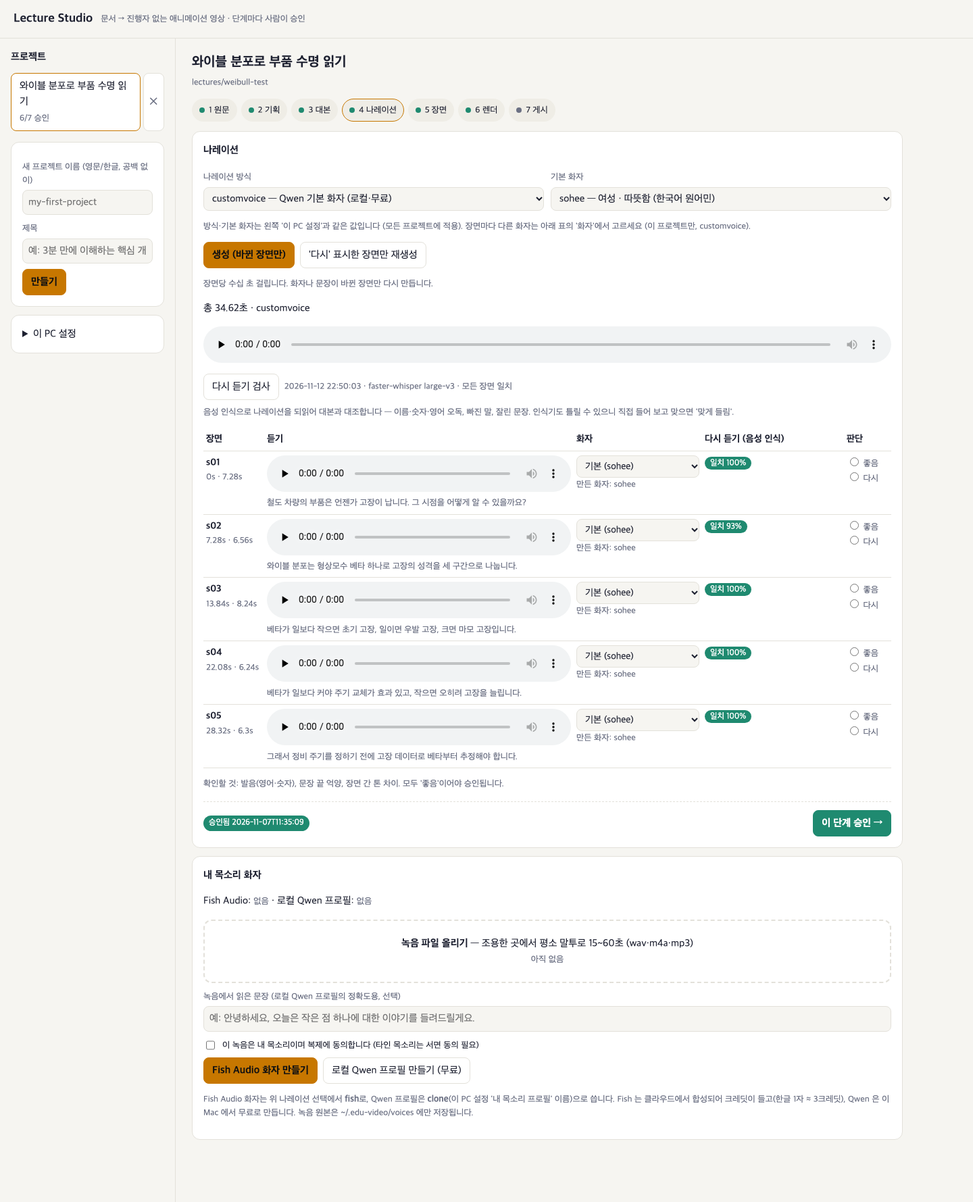
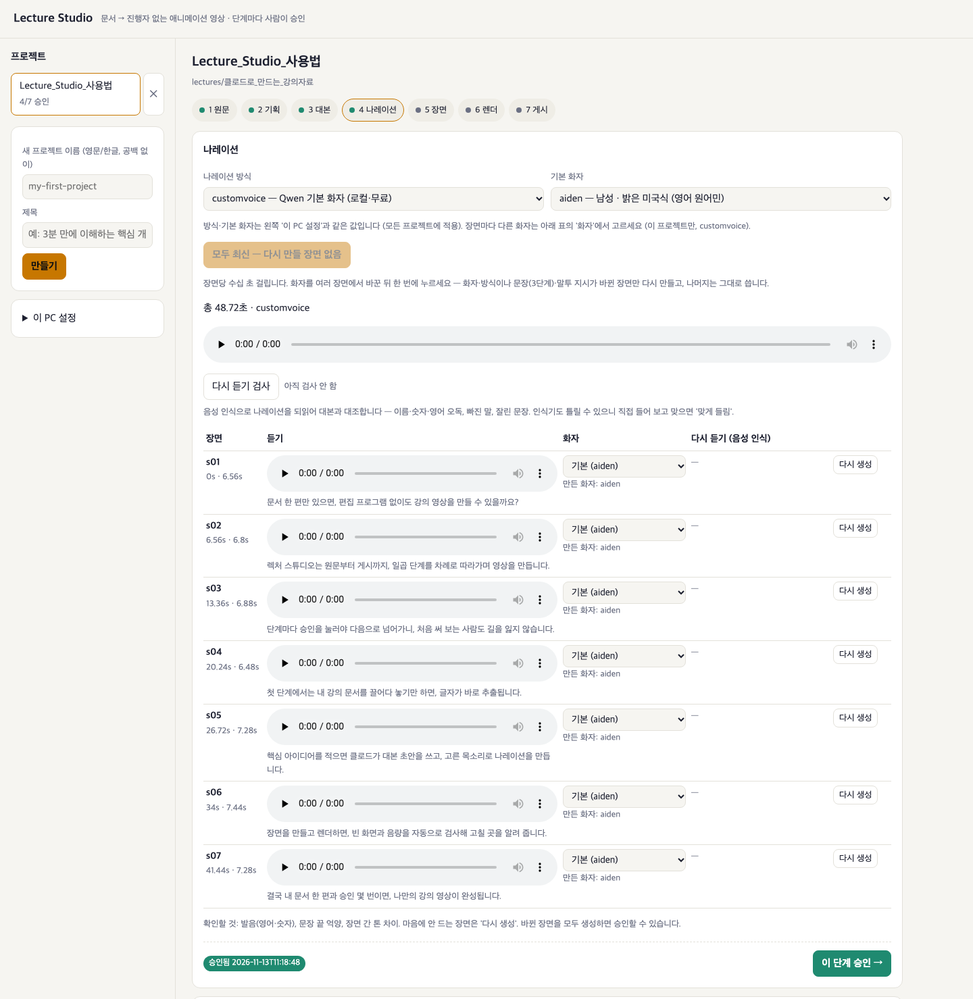
Studio 나레이션: 생성 버튼에 다시 만들 장면 수·이유, 장면별 좋음/다시 판단 제거, 길이 경고
- narrate.py: plan() / --plan — 모델 없이 다음 생성에서 다시 만들 장면과 이유(new·voice·text)를
  생성과 같은 해시 규칙으로 계산. 길이 경고(pace_warning): 글자 수에 비해 너무 길거나 짧은 테이크
- Studio: 생성 버튼에 "생성 — n개 장면 (화자 변경 · 문장 변경)", 전체 생성 / 모두 최신(비활성),
  행 배지에 이유, 화자 변경 시 안내, Fish 크레딧 추정은 다시 만들 장면만
- 장면별 좋음/다시 판단 제거 → 행마다 '다시 생성', 검사·길이 경고에 걸린 장면은 '걸린 장면 다시 생성'.
  승인 조건 = 바뀐 장면이 모두 생성됨
- 문서: USAGE·WORKFLOW·README 갱신, 나레이션 캡처 교체

diff --git a/studio/index.html b/studio/index.html
@@ -349,27 +349,45 @@ function sttCell(id) {
 const BACKENDS = [["customvoice", "Qwen 기본 화자 (로컬·무료)"], ["clone", "Qwen 내 목소리 (로컬·무료)"],
   ["fish", "Fish Audio 내 목소리 (유료 크레딧)"], ["silent", "길이만 — 시험용"]];
 const backendOptions = (sel) => BACKENDS.map(([v, d]) => `<option value="${v}" ${v === sel ? "selected" : ""}>${v} — ${d}</option>`).join("");
+/* what "생성" will (re)make and why — from the server (tools/narrate.py plan(), same cache key as generation) */
+const REASON = { new: "새 장면", voice: "화자 변경", text: "문장 변경" };
+function narrPlan() {
+  const p = view.narration_plan;
+  if (!p || p.error) return null;
+  return { ...p, byId: Object.fromEntries(p.pending.map((x) => [x.id, x.reasons])) };
+}
+function narrateLabel(p) {
+  if (!p) return { text: "생성 (바뀐 장면만)", off: false };
+  const n = p.pending.length;
+  if (!p.total) return { text: "생성할 장면 없음", off: true };
+  if (!n) return { text: "모두 최신 — 다시 만들 장면 없음", off: true };
+  if (n === p.total && p.pending.every((x) => x.reasons.includes("new"))) return { text: `전체 생성 (${n}개 장면)`, off: false };
+  const cnt = {};
+  p.pending.forEach((x) => x.reasons.forEach((r) => (cnt[r] = (cnt[r] || 0) + 1)));
+  return { text: `생성 — ${n}개 장면 (${Object.entries(cnt).map(([r, k]) => `${REASON[r] || r} ${k}`).join(" · ")})`, off: false };
+}
 function pNarration() {
   const m = view.audio, t = Date.now(), cfg = view.config || CONFIG;
   const backend = cfg.narrate_backend, cv = backend === "customvoice";
   const made = Object.fromEntries((m?.scenes || []).map((x) => [x.id, x]));
   const scenes = (view.scenes || {}).scenes || [];
-  // scenes the listen-back check flagged start as "다시" unless a person already judged them
-  for (const id of (view.stt && !view.stt.stale ? view.stt.flagged : [])) if (!review[id]) review[id] = "redo";
+  const plan = narrPlan(), lab = narrateLabel(plan);
+  const flagged = narrFlagged();
   const rows = scenes.map((sc) => {
     const a = made[sc.id], own = view.scene_speakers[sc.id] || "";
     const want = own || cfg.speaker;
     const madeWith = a && (m.backend === "customvoice" ? (a.speaker || m.speaker) : m.backend);
-    const stale = a && a.file && (m.backend !== backend || (cv && madeWith !== want));
+    const why = plan ? (plan.byId[sc.id] || []) : null;
+    const stale = a && a.file && (why ? why.length > 0 : (m.backend !== backend || (cv && madeWith !== want)));
+    const staleText = why && why.length ? `${why.map((r) => REASON[r] || r).join("·")} → 생성 시 다시 만듦` : "바뀜 — 생성 시 다시 만듦";
     const pick = `<select class="mini-select" ${cv ? "" : "disabled"} onchange="setSceneSpeaker('${esc(sc.id)}', this.value)">
         <option value="">기본 (${esc(cfg.speaker)})</option>${SPEAKERS.map(([v, d]) => `<option value="${v}" ${v === own ? "selected" : ""}>${v} — ${esc(d.split(" (")[0])}</option>`).join("")}</select>`;
     return `<tr><td><b>${esc(sc.id)}</b>${a ? `<br><span class="muted">${a.start}s · ${a.duration}s</span>` : ""}</td>
       <td>${a?.file ? `<audio controls preload="none" src="/media/${encodeURIComponent(cur)}/build/audio/${esc(a.file)}?t=${t}" style="width:100%"></audio>` : '<span class="muted">아직 생성 전</span>'}
-        <div class="muted">${esc(sc.narration || sc.text || "")}</div></td>
-      <td>${pick}${a?.file ? `<div class="muted">만든 화자: ${esc(madeWith || "")}</div>` : ""}${stale ? '<span class="badge editing">바뀜 — 생성 시 다시 만듦</span>' : ""}</td>
+        <div class="muted">${esc(sc.narration || sc.text || "")}</div>${a?.warn && !stale ? `<span class="badge editing" title="TTS가 말을 늘이거나 끊을 때 생깁니다">⚠ ${esc(a.warn)}</span>` : ""}</td>
+      <td>${pick}${a?.file ? `<div class="muted">만든 화자: ${esc(madeWith || "")}</div>` : ""}${stale ? `<span class="badge editing">${esc(staleText)}</span>` : ""}</td>
       <td>${a?.file ? sttCell(sc.id) : '<span class="muted">—</span>'}</td>
-      <td style="white-space:nowrap">${a?.file ? `<label style="display:inline"><input type="radio" name="r_${esc(sc.id)}" value="ok" ${review[sc.id] === "ok" ? "checked" : ""} onchange="review['${esc(sc.id)}']='ok'" style="width:auto"> 좋음</label><br>
-        <label style="display:inline"><input type="radio" name="r_${esc(sc.id)}" value="redo" ${review[sc.id] === "redo" ? "checked" : ""} onchange="review['${esc(sc.id)}']='redo'" style="width:auto"> 다시</label>` : ""}</td></tr>`;
+      <td style="white-space:nowrap">${a?.file ? `<button class="mini" title="이 장면만 새로 녹음 (같은 문장·화자라도 다시 만듦)" onclick="redoScenes(['${esc(sc.id)}'])">다시 생성</button>` : ""}</td></tr>`;
   }).join("");
   const vs = styleById(view.style.id);
   const note = vs?.narration === "none" ? `<p class="warnbox">5단계에서 고른 스타일 '${esc(vs.name)}'은(는) 나레이션을 쓰지 않습니다. 생성하지 않고 바로 승인할 수 있습니다.</p>` : "";
@@ -381,21 +399,21 @@ function pNarration() {
       <div><label>기본 화자 ${cv ? "" : '<span class="muted">(customvoice 에서만)</span>'}</label>
         ${cv ? `<select onchange="setVoice({speaker:this.value})">${speakerOptions(cfg.speaker)}</select>` : `<div style="padding:8px 0">${who}</div>`}</div></div>
     <p class="muted">방식·기본 화자는 왼쪽 '이 PC 설정'과 같은 값입니다 (모든 프로젝트에 적용). 장면마다 다른 화자는 아래 표의 '화자'에서 고르세요 (이 프로젝트만, customvoice).</p>
-    <div class="row"><button class="primary" onclick="narrate()">생성 (바뀐 장면만)</button>
-    <button onclick="redo()">'다시' 표시한 장면만 재생성</button></div>
-    <p class="muted">장면당 수십 초 걸립니다. 화자나 문장이 바뀐 장면만 다시 만듭니다.</p>
+    <div class="row"><button class="primary" onclick="narrate()" ${lab.off ? "disabled" : ""}>${esc(lab.text)}</button>
+    ${flagged.length ? `<button onclick="redoScenes(${esc(JSON.stringify(flagged))})" title="음성 인식 검사에서 다르게 들렸거나, 글자 수에 비해 길이가 이상한 장면">걸린 장면 다시 생성 (${flagged.length}: ${flagged.map(esc).join(", ")})</button>` : ""}</div>
+    <p class="muted">장면당 수십 초 걸립니다. 화자를 여러 장면에서 바꾼 뒤 한 번에 누르세요 — 화자·방식이나 문장(3단계)·말투 지시가 바뀐 장면만 다시 만들고, 나머지는 그대로 씁니다.</p>
     ${m ? `<p>총 ${m.total_duration}초 · ${esc(m.backend)}</p>
       <audio controls preload="none" src="/media/${encodeURIComponent(cur)}/build/audio/narration.wav?t=${t}" style="width:100%"></audio>
       ${sttBar()}` : ""}
-    ${scenes.length ? `<table><tr><th style="width:90px">장면</th><th>듣기</th><th style="width:190px">화자</th><th style="width:210px">다시 듣기 (음성 인식)</th><th style="width:70px">판단</th></tr>${rows}</table>`
+    ${scenes.length ? `<table><tr><th style="width:90px">장면</th><th>듣기</th><th style="width:190px">화자</th><th style="width:210px">다시 듣기 (음성 인식)</th><th style="width:90px"></th></tr>${rows}</table>`
       : '<p class="muted">3단계 대본이 있어야 장면이 보입니다.</p>'}
-    <p class="muted">확인할 것: 발음(영어·숫자), 문장 끝 억양, 장면 간 톤 차이. 모두 '좋음'이어야 승인됩니다.</p>${gate("narration")}</div>
+    <p class="muted">확인할 것: 발음(영어·숫자), 문장 끝 억양, 장면 간 톤 차이. 마음에 안 드는 장면은 '다시 생성'. 바뀐 장면을 모두 생성하면 승인할 수 있습니다.</p>${gate("narration")}</div>
     ${voiceCard()}`;
 }
 function sttBar() {
   const r = view.stt;
   const state = !r ? '<span class="muted">아직 검사 안 함</span>'
-    : `<span class="muted">${esc(r.checked.replace("T", " "))} · ${esc(r.engine)} ${esc(r.model)} · ${r.flagged.length ? `확인할 장면 ${r.flagged.length}개 (${r.flagged.map(esc).join(", ")}) — '다시'로 표시됨` : "모든 장면 일치"}${r.stale ? " · <b>나레이션이 바뀌어 다시 검사 필요</b>" : ""}</span>`;
+    : `<span class="muted">${esc(r.checked.replace("T", " "))} · ${esc(r.engine)} ${esc(r.model)} · ${r.flagged.length ? `확인할 장면 ${r.flagged.length}개 (${r.flagged.map(esc).join(", ")}) — 들어 보고 '다시 생성' 또는 '맞게 들림'` : "모든 장면 일치"}${r.stale ? " · <b>나레이션이 바뀌어 다시 검사 필요</b>" : ""}</span>`;
   return `<div class="row" style="margin:8px 0"><button onclick="act('stt_check',{})">다시 듣기 검사</button> ${state}</div>
     <p class="muted" style="margin-top:0">음성 인식으로 나레이션을 되읽어 대본과 대조합니다 — 이름·숫자·영어 오독, 빠진 말, 잘린 문장. 인식기도 틀릴 수 있으니 직접 들어 보고 맞으면 '맞게 들림'.</p>`;
 }
@@ -403,13 +421,17 @@ async function setVoice(body) {
   const j = await api(`/api/lectures/${encodeURIComponent(cur)}/set_voice`, body);
   CONFIG = j.config; view.config = j.config;
   if ($("cfg_speaker")) { $("cfg_speaker").innerHTML = speakerOptions(j.config.speaker); $("cfg_narrate_backend").value = j.config.narrate_backend; }
-  toast(body.speaker ? `기본 화자: ${body.speaker} (모든 프로젝트)` : body.narrate_backend ? `나레이션 방식: ${body.narrate_backend}` : "저장됨");
   await refresh();
+  const n = narrPlan()?.pending.length;
+  toast((body.speaker ? `기본 화자: ${body.speaker} (모든 프로젝트)` : body.narrate_backend ? `나레이션 방식: ${body.narrate_backend}` : "저장됨") +
+    (n ? ` — '생성'을 누르면 ${n}개 장면을 다시 만듭니다` : ""));
 }
 async function setSceneSpeaker(sid, spk) {
   const map = { ...view.scene_speakers }; if (spk) map[sid] = spk; else delete map[sid];
   await api(`/api/lectures/${encodeURIComponent(cur)}/set_voice`, { scene_speakers: map });
-  toast(spk ? `${sid} 화자: ${spk}` : `${sid}: 기본 화자로`); await refresh();
+  await refresh();
+  const again = (narrPlan()?.byId || {})[sid];
+  toast((spk ? `${sid} 화자: ${spk}` : `${sid}: 기본 화자로`) + (again ? " — '생성'을 누르면 이 장면만 다시 만듭니다" : ""));
 }
 /* my voice as narrator: one recording → Fish Audio clone (MCP, paid TTS) and/or local Qwen profile (free) */
 let voiceSample = "";
@@ -461,14 +483,20 @@ function fishOk(backend, ids) {
     `바뀐 장면만 생성 — 최대 약 ${b.toLocaleString()} 크레딧 (텍스트 ${b.toLocaleString()}바이트, 한글 1자 ≈ 3).\n잔액이 모자라면 생성하지 않고 멈춥니다. 진행할까요?`);
 }
 function narrate() {
-  const backend = (view.config || CONFIG).narrate_backend;
-  if (!fishOk(backend)) return;
+  const backend = (view.config || CONFIG).narrate_backend, p = narrPlan();
+  if (p && !p.pending.length) return toast("모두 최신 — 다시 만들 장면이 없습니다 ('다시' 표시 후 재생성은 가능)");
+  if (!fishOk(backend, p ? p.pending.map((x) => x.id) : undefined)) return;
   act("narrate", { backend, paid_ok: true });
 }
-function redo() {
-  const ids = Object.keys(review).filter((k) => review[k] === "redo");
-  if (!ids.length) return toast("'다시'로 표시한 장면이 없습니다");
-  ids.forEach((k) => delete review[k]);
+/* scenes worth another take: the listen-back check heard something else, or the take's length doesn't fit its text */
+function narrFlagged() {
+  const stt = view.stt && !view.stt.stale ? view.stt.flagged : [];
+  const pending = narrPlan()?.byId || {};
+  const warn = (view.audio?.scenes || []).filter((x) => x.file && x.warn && !pending[x.id]).map((x) => x.id);
+  return [...new Set([...stt, ...warn])];
+}
+function redoScenes(ids) {
+  if (!ids || !ids.length) return;
   const backend = (view.config || CONFIG).narrate_backend;
   if (!fishOk(backend, ids)) return;
   act("narrate", { backend, force: ids, paid_ok: true });
@@ -829,8 +857,9 @@ async function approve(s) {
   } else if (s === "narration") {
     const ids = (view.audio?.scenes || []).filter((x) => x.file).map((x) => x.id);
     if (!view.audio) return toast("나레이션을 먼저 생성하세요");
-    if (ids.some((id) => review[id] !== "ok")) return toast("모든 장면을 '좋음'으로 표시해야 승인됩니다");
-    body.review = Object.fromEntries(ids.map((id) => [id, "ok"]));
+    const pending = narrPlan()?.pending || [];
+    if (pending.length) return toast(`바뀐 장면 ${pending.length}개(${pending.map((x) => x.id).join(", ")})를 먼저 생성해야 승인됩니다`);
+    body.review = Object.fromEntries(ids.map((id) => [id, "ok"]));   // kept for the record (lecture.json narration_review)
   }
   if (s === "publish") {
     body.checks = [...document.querySelectorAll(".pc")].map((c) => c.checked);

diff --git a/tools/narrate.py b/tools/narrate.py
@@ -150,6 +150,20 @@ def scene_text(sc: dict) -> str:
     return (sc.get("narration") or sc.get("text") or "").strip()
 
 
+def pace_warning(text: str, seconds: float) -> str:
+    """Flag a take whose length doesn't fit its text: TTS sometimes rambles on (or stops early).
+    Korean narration runs about 4-7 syllables a second; Latin letters count as a third of a syllable."""
+    units = sum(1 for c in text if "가" <= c <= "힣" or c.isdigit()) + sum(1 for c in text if c.isascii() and c.isalpha()) / 3
+    if units < 8 or seconds <= 0:
+        return ""
+    rate = units / seconds
+    if rate < 2.5:
+        return f"글자 수에 비해 너무 김 ({seconds:.1f}초, 초당 {rate:.1f}음절) — 말이 늘어지거나 끝에 군소리"
+    if rate > 10:
+        return f"글자 수에 비해 너무 짧음 ({seconds:.1f}초, 초당 {rate:.1f}음절) — 문장이 잘렸을 수 있음"
+    return ""
+
+
 def fish_file(out: Path, sid: str, h: str) -> Path:
     return out / "fish" / f"{sid}-{h}.mp3"
 
@@ -157,6 +171,44 @@ def fish_file(out: Path, sid: str, h: str) -> Path:
 def scene_hash(sc: dict, key: str) -> str:
     raw = json.dumps([scene_text(sc), sc.get("instruct", ""), key], ensure_ascii=False)
     return hashlib.sha1(raw.encode("utf-8")).hexdigest()[:12]
+
+
+def plan(script: dict, out: Path, backend: str, speaker: str | None = None, voice: str | None = None,
+         fish_voice: str | None = None, scene_speakers: dict | None = None, language: str | None = None) -> dict:
+    """Which scenes the next (non --force) run will synthesize, and why — same cache rule as main(),
+    without loading a model. reasons per scene: "new" (no audio yet), "voice" (speaker / backend / voice
+    profile changed), "text" (narration or instruct changed). Studio shows this on the generate button."""
+    a = argparse.Namespace(backend=backend, language=language, speaker=speaker, voice=voice,
+                           fish_voice=fish_voice or "", scene_speakers=scene_speakers or {}, out=out)
+    be = Backend(a, script)
+    try:
+        old = json.loads((out / "manifest.json").read_text(encoding="utf-8"))
+    except (OSError, ValueError):
+        old = {}
+    old_by_id = {s["id"]: s for s in old.get("scenes", [])}
+    pending, total = [], 0
+    for sc in script.get("scenes", []):
+        if not scene_text(sc):
+            continue
+        total += 1
+        key = be.settings_key(sc)
+        prev = old_by_id.get(sc["id"])
+        if not prev or not prev.get("hash") or not (out / f"{sc['id']}.wav").exists():
+            pending.append({"id": sc["id"], "reasons": ["new"]})
+            continue
+        if prev["hash"] == scene_hash(sc, key):
+            continue
+        # rebuild the key the old take was made with (manifest keeps backend, per-scene speaker, voice)
+        ob = old.get("backend")
+        who = {"customvoice": prev.get("speaker") or old.get("speaker"), "silent": "-"}.get(ob, old.get("voice"))
+        old_key = f"{ob}|{who}|{old.get('language')}"
+        reasons = []
+        if old_key != key:
+            reasons.append("voice")
+        if scene_hash(sc, old_key) != prev["hash"]:   # text / instruct differ too (or old key not recoverable)
+            reasons.append("text")
+        pending.append({"id": sc["id"], "reasons": reasons or ["text"]})
+    return {"backend": be.kind, "total": total, "pending": pending}
 
 
 def main() -> None:
@@ -177,8 +229,13 @@ def main() -> None:
     ap.add_argument("--lead", type=float, default=0.3, help="silence before the first word of each scene")
     ap.add_argument("--min", type=float, default=3.0, help="minimum scene length in seconds")
     ap.add_argument("--force", nargs="*", metavar="ID", help="regenerate these scene ids (no ids = all)")
+    ap.add_argument("--plan", action="store_true", help="print which scenes would be made and why (JSON), make nothing")
     a = ap.parse_args()
     a.scene_speakers = dict(x.split("=", 1) for x in a.scene_speaker if "=" in x)
+    if a.plan:
+        print(json.dumps(plan(json.loads(a.scenes.read_text(encoding="utf-8")), a.out, a.backend, a.speaker, a.voice,
+                              a.fish_voice, a.scene_speakers, a.language), ensure_ascii=False, indent=2))
+        return
 
     script = json.loads(a.scenes.read_text(encoding="utf-8"))
     scenes = script["scenes"]
@@ -213,7 +270,12 @@ def main() -> None:
                 samples = librosa.resample(np.asarray(samples, dtype=np.float32), orig_sr=sr, target_sr=SR)
             write_wav(wav_path, samples, SR)
             made += 1
-            print(f"  made {sc['id']:<8} {time.time() - t0:5.1f}s  {(spk + ' · ') if spk else ''}{text[:40]}", flush=True)
+            secs = len(samples) / SR
+            print(f"  made {sc['id']:<8} 음성 {secs:4.1f}초 (생성 {time.time() - t0:4.1f}초)  "
+                  f"{(spk + ' · ') if spk else ''}{text[:40]}", flush=True)
+            warn = pace_warning(text, secs)
+            if warn:
+                print(f"  WARN {sc['id']:<8} {warn} — 들어 보고 이상하면 이 장면만 다시 생성(--force {sc['id']})", flush=True)
         elif text:
             skipped += 1
             print(f"  skip {sc['id']:<8} (cached)", flush=True)
@@ -223,7 +285,7 @@ def main() -> None:
             voice_seconds = len(data) / SR
         pause = float(sc.get("pause_after", a.pause))
         entries.append({"id": sc["id"], "file": wav_path.name if text else None, "hash": h if text else None, "speaker": spk,
-                        "voice_seconds": round(voice_seconds, 3),
+                        "voice_seconds": round(voice_seconds, 3), "warn": pace_warning(text, voice_seconds) if text else "",
                         "duration": round(max(a.min, a.lead + voice_seconds + pause), 3)})
 
     # lay every scene on one track at its start

diff --git a/studio/app.py b/studio/app.py
@@ -760,6 +760,25 @@ def ref_hint(slug: str) -> str:
     return text
 
 
+# ---- narration plan: which scenes "생성" will (re)make and why — tools/narrate.py plan(), same cache key
+
+def narration_plan(slug: str, st: dict, cfg: dict) -> dict | None:
+    script = read_json(lecture_dir(slug) / "scenes.json")
+    if not script:
+        return None
+    try:
+        if str(TOOLS) not in sys.path:
+            sys.path.insert(0, str(TOOLS))
+        import narrate   # stdlib-only at import time; the TTS model is loaded only when synthesizing
+        backend = cfg.get("narrate_backend", "customvoice")
+        return narrate.plan(script, lecture_dir(slug) / "build" / "audio", backend,
+                            speaker=cfg.get("speaker"), voice=cfg.get("voice"),
+                            fish_voice=fish_state().get("voice_id") if backend == "fish" else None,
+                            scene_speakers=(st.get("scene_speakers") or {}) if backend == "customvoice" else {})
+    except Exception as e:   # never break the page over a preview
+        return {"error": str(e)}
+
+
 # ---- narration listen-back: tools/stt_check.py → build/audio/stt.json (+ accepted scenes in lecture.json)
 
 def stt_view(slug: str, st: dict) -> dict | None:
@@ -1024,6 +1043,7 @@ def lecture_view(slug: str) -> dict:
         "ref": ref_view(slug),
         "music": music_view(slug),
         "stt": stt_view(slug, st),
+        "narration_plan": narration_plan(slug, st, load_config()),
         "storyboard": {**(st.get("storyboard") or {}),
                        "text": storyboard_path(slug).read_text(encoding="utf-8") if storyboard_path(slug).exists() else ""},
         "style_assets": style_assets(d, style),

diff --git a/docs/USAGE.md b/docs/USAGE.md
@@ -4,7 +4,7 @@
 위쪽 단계 표시줄의 **1 원문 → 7 게시**를 차례로 진행하고, 단계마다 오른쪽 아래 **이 단계 승인 →** 을 눌러야 다음 단계가 확정됩니다.
 앞 단계를 고치면 뒤 단계 승인은 "다시 승인 필요"로 바뀝니다. 점 색: 초록 = 승인됨, 빨강 = 수정됨·다시 승인 필요, 회색 = 대기. 지금 보고 있는 단계는 주황 테두리로 표시됩니다.
 
-> 캡처는 2026-11-12 예시 프로젝트 `weibull-test`(와이블 분포로 부품 수명 읽기, 30초)입니다.
+> 캡처는 2026-11-12 예시 프로젝트 `weibull-test`(와이블 분포로 부품 수명 읽기, 30초)입니다. 4단계 나레이션만 2026-11-13 화면 개편 뒤 `Lecture_Studio_사용법` 프로젝트로 다시 찍었습니다.
 
 ---
 
@@ -50,12 +50,16 @@
 ![4 나레이션](images/studio/4-narration.png)
 
 - **나레이션 방식**(Qwen 기본 화자 / Qwen 내 목소리 / Fish Audio 유료 / silent 시험용)과 **기본 화자**를 고릅니다. 둘 다 '이 PC 설정'과 같은 값입니다.
-- **생성 (바뀐 장면만)**: 화자나 문장이 바뀐 장면만 다시 만듭니다. **'다시' 표시한 장면만 재생성**도 있습니다.
-- **장면별 화자**: 표의 '화자' 칸에서 그 장면만 다른 목소리로 바꿉니다(이 프로젝트에만 적용). 바뀐 장면에는 "바뀜" 배지가 붙습니다.
+- **생성 버튼**: 다시 만들 장면 수와 이유를 보여 줍니다. 예: `생성 — 2개 장면 (화자 변경 1 · 문장 변경 1)`.
+  - 화자·방식, 3단계 문장, 말투 지시가 바뀐 장면만 다시 만들고 나머지는 그대로 씁니다.
+  - 처음에는 `전체 생성`, 바뀐 장면이 없으면 `모두 최신`(비활성)으로 표시됩니다.
+  - 화자를 여러 장면에서 바꾼 뒤 한 번에 누르세요. 화자를 고르기만 해서는 생성되지 않습니다.
+- **장면별 화자**: 표의 '화자' 칸에서 그 장면만 다른 목소리로 바꿉니다(이 프로젝트에만 적용). 다시 만들 장면에는 이유 배지가 붙습니다(예: `화자 변경 → 생성 시 다시 만듦`).
+- **다시 생성**: 행마다 있는 버튼으로, 문장·화자가 같아도 그 장면만 새로 녹음합니다.
 - **다시 듣기 검사**: 음성 인식으로 나레이션을 되읽어 대본과 대조합니다(이름·숫자·영어 오독, 빠진 말). 장면마다 `일치 n%` 배지가 붙습니다.
-  - 확인·다름 장면은 자동으로 '다시'에 체크됩니다.
+  - 검사에서 걸렸거나 글자 수에 비해 길이가 이상한 장면이 있으면 위쪽에 **걸린 장면 다시 생성 (n)** 버튼이 나타납니다.
   - 직접 들어 봐서 맞으면 **맞게 들림**을 누릅니다. 이 판정은 그 음성에만 유효합니다.
-- 장면을 모두 '좋음'으로 표시해야 승인됩니다.
+- **승인**: 장면별 판단은 없습니다. 바뀐 장면을 모두 생성해 나레이션이 현재 대본·화자와 맞으면 승인할 수 있습니다.
 - **내 목소리 화자**: 녹음 파일(15~60초)을 올리고 본인 동의에 체크한 뒤 Fish Audio 화자(유료) 또는 로컬 Qwen 프로필(무료)을 만듭니다.
 
 ## 5 장면

diff --git a/WORKFLOW.md b/WORKFLOW.md
@@ -247,7 +247,7 @@ python studio/app.py          # Windows: python, macOS: python3
 - 1단계 원문은 파일 선택·끌어놓기로 올립니다 (PDF·HTML·MD·TXT).
 - 각 단계 화면 아래 **"이 단계 승인 →"** 을 눌러야 다음 단계로 넘어갑니다. 앞 단계가 승인되지 않았으면 거절됩니다.
 - 대본·장면 단계의 **"Claude로 … "** 버튼은 `claude -p`(Claude Code 헤드리스)를 실행합니다. Claude Code가 설치·로그인되어 있어야 합니다. 직접 하고 싶으면 **"프롬프트 복사"** 후 Claude Code에 붙여넣으세요.
-- 나레이션 단계는 장면별 플레이어와 **좋음/다시** 판단이 있고, '다시'만 골라 재생성합니다. 모두 '좋음'이어야 승인됩니다.
+- 나레이션 단계는 장면별 플레이어와 장면별 **다시 생성** 버튼이 있습니다. 생성 버튼은 다시 만들 장면 수와 이유(화자 변경·문장 변경·새 장면)를 보여 주고, 바뀐 장면을 모두 생성하면 승인할 수 있습니다 (장면별 좋음/다시 판단은 2026-11-13에 없앰).
 - 긴 작업은 팝업에 진행 막대(%·경과·남은 시간)로 보이고, 로그는 `lectures/<프로젝트>/build/logs/`에 남습니다.
 - 4단계 **내 목소리 화자**: 녹음 한 번으로 Fish Audio 화자(유료 합성)와 로컬 Qwen 프로필(무료)을 만듭니다 (8장).
 - **이 PC 설정**: qwen-tts Python 경로, 기본 백엔드·화자는 기기마다 다르므로 `studio/config.local.json`(git 제외)에 저장됩니다.

diff --git a/README.md b/README.md
@@ -31,7 +31,7 @@
 
 | 단계 | 추가된 것 |
 |---|---|
-| 4 나레이션 | 장면별 화자 선택 · 다시 듣기 검사(확인·다름 장면은 자동 '다시', 사람이 들어 보고 '맞게 들림') |
+| 4 나레이션 | 장면별 화자 선택 · 생성 버튼에 다시 만들 장면 수·이유 표시 · 장면별 '다시 생성' · 다시 듣기 검사(걸린 장면은 '걸린 장면 다시 생성', 사람이 들어 보고 '맞게 들림') — 장면별 좋음/다시 판단 없음 |
 | 5 장면 | 모든 스타일 제작 지시에 [모션 연출 규칙](.claude/skills/edu-video/references/motion-rules.md)(이징·카메라·장면 연결) · 참고 영상 측정 → 효과 사양표 · 음악 비트 맞춤 · **스토리보드 승인 후 제작** |
 | 6 렌더 | 음량 −14 LUFS 자동 정규화 · 자동 검사 배지(통과/확인/문제) · 레퍼런스와 같은 측정 코드로 대조(±20%) · 박자 검사 |
 
